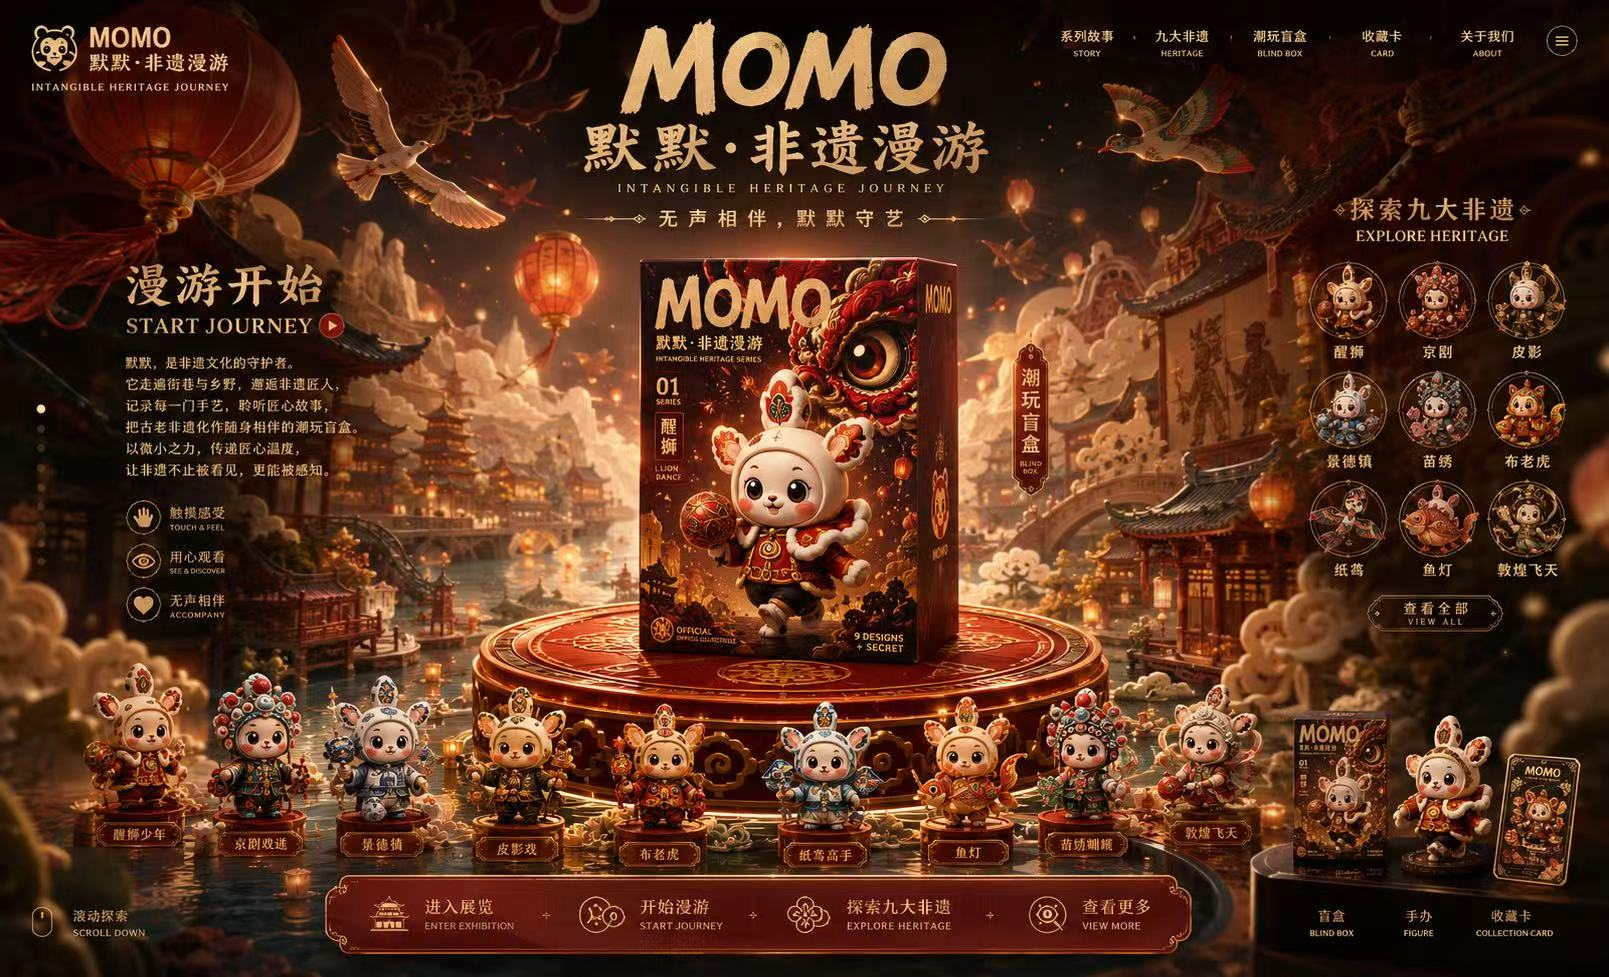
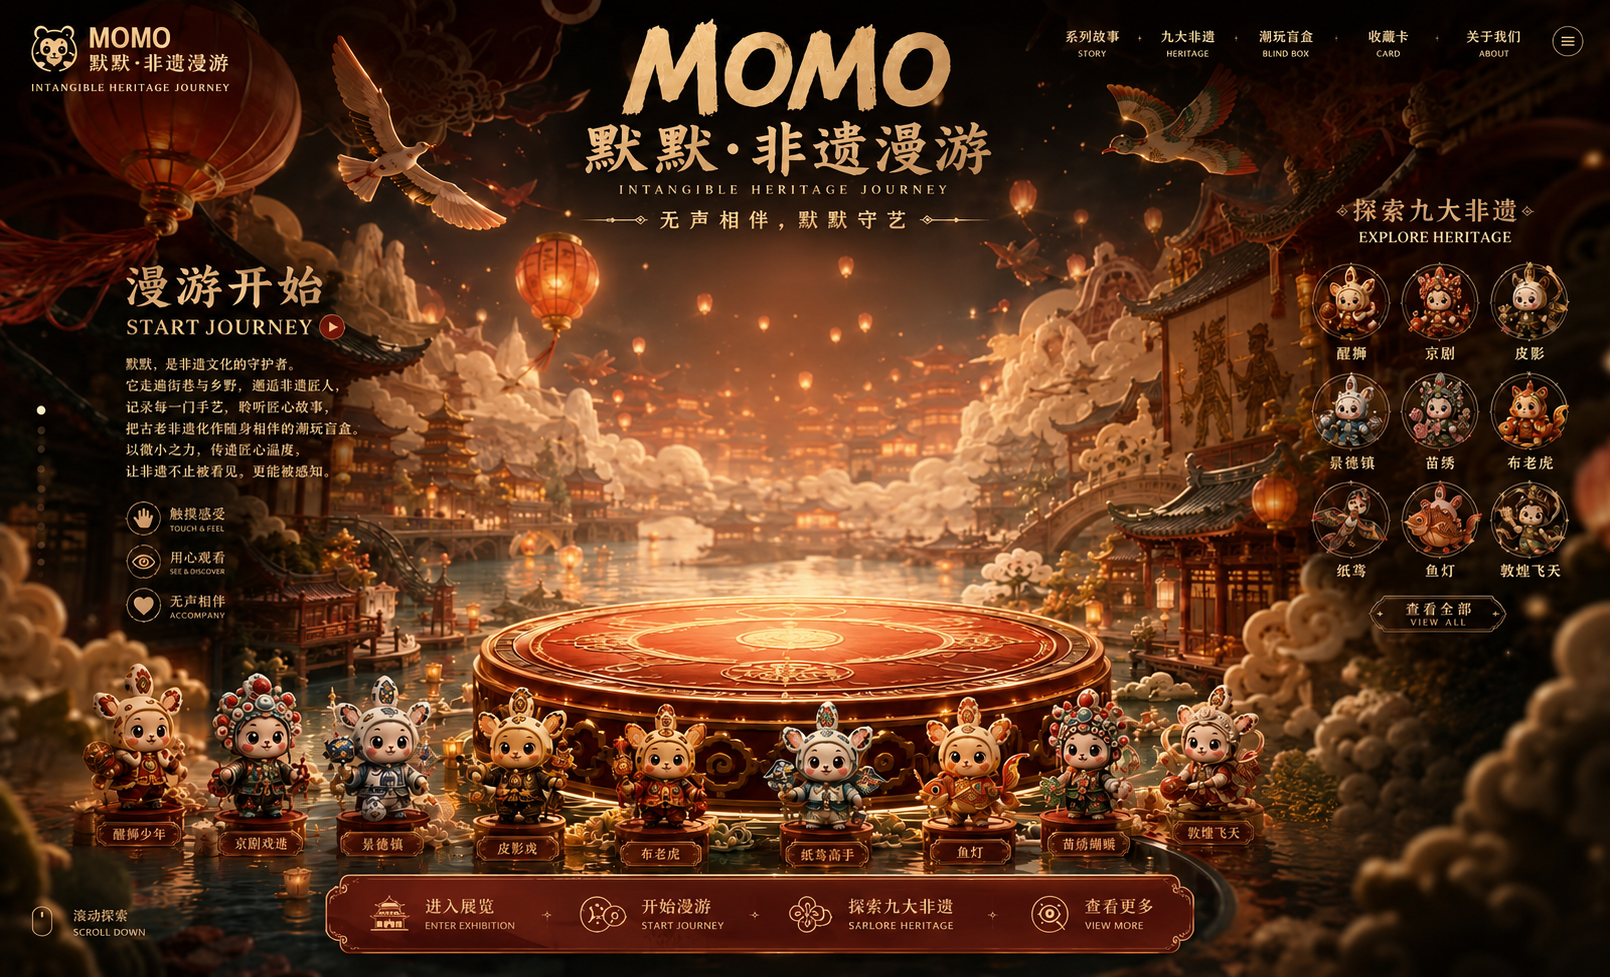
Replace hub artwork and anchor future 3D model slot

diff --git a/index.html b/index.html
@@ -30,6 +30,14 @@
 
       <section class="scene scene-hub" data-scene="hub" aria-label="非遗漫游功能导航">
         <img class="scene-art" src="./assets/hub.png" alt="默默非遗漫游功能导航大厅" />
+        <div
+          class="hub-model-slot"
+          id="hubModelSlot"
+          data-model-left="638"
+          data-model-top="257"
+          data-model-width="320"
+          data-model-height="412"
+          aria-hidden="true"></div>
         <button class="hub-back icon-button" data-go="home" type="button" aria-label="返回首页">←</button>
         <nav class="hub-hotspots" aria-label="功能导航">
           <button class="hub-area hub-story" data-hub-label="系列故事" type="button" aria-label="系列故事"></button>

diff --git a/styles.css b/styles.css
@@ -232,10 +232,29 @@ button { font: inherit; color: inherit; }
 
 .hub-back {
   position: absolute;
-  left: 1.5%;
-  top: 11%;
+  left: 1.4%;
+  top: 1.4%;
+  width: 14%;
+  height: 9%;
   z-index: 5;
-  background: rgba(32,10,10,.48);
+  opacity: 0;
+  border: 0;
+  background: transparent;
+}
+.hub-back:focus-visible {
+  opacity: 1;
+  outline: 1px solid rgba(255,219,143,.72);
+  outline-offset: -4px;
+}
+.hub-model-slot {
+  position: absolute;
+  left: 39.6273%;
+  top: 26.305%;
+  width: 19.8758%;
+  height: 42.1699%;
+  z-index: 3;
+  pointer-events: none;
+  transform-origin: 50% 100%;
 }
 .hub-hotspots {
   position: absolute;

diff --git a/script.js b/script.js
@@ -35,7 +35,7 @@ let audioContext;
 
 const sceneRatios = {
   home: 1586 / 992,
-  hub: 1609 / 977,
+  hub: 1610 / 977,
   draw: 1536 / 1024,
   result: 1609 / 977
 };

diff --git a/design-qa.md b/design-qa.md
@@ -1,0 +1,71 @@
+# Design QA — 第二页功能导航
+
+- Source visual truth: `C:\Users\HE\AppData\Local\Temp\codex-clipboard-b8bb9e5c-ffed-4530-b160-f25dd1c723cb.png`
+- Implementation screenshot: `C:\Users\HE\Documents\Codex\2026-07-27\new-chat-4\hub-implementation.png`
+- Combined comparison: `C:\Users\HE\Documents\Codex\2026-07-27\new-chat-4\hub-comparison.png`
+- Viewport: 1610 × 977 CSS px
+- Source pixels: 1610 × 977
+- Implementation pixels: 1610 × 977
+- Device scale factor: 1
+- Density normalization: none required
+- State: homepage → second-page functional navigation
+- Primary interaction tested: enter second page
+- Console errors: none
+
+## Full-view comparison evidence
+
+The implementation uses the supplied image at its native 1610 × 977 ratio. The image crop, typography, palette, illustration detail, bottom navigation, character row, central pedestal and surrounding architecture match pixel-for-pixel because the supplied raster is used directly as the page artwork.
+
+The model anchor measured in the rendered browser at:
+
+- X: 637.96 px
+- Y: 256.95 px
+- Width: 320.04 px
+- Height: 412.04 px
+
+This matches the requested X 638, Y 257, 320 × 412 px placement within sub-pixel rendering tolerance. Its horizontal center is 797.98 px, aligned with the circular pedestal.
+
+## Focused-region comparison evidence
+
+No separate crop was required. The model slot has no visible content in this iteration, and its exact browser bounding box was measured directly. The supplied background image contains all visible type, icons, illustrations and decorative details, so the full-resolution combined comparison is sufficient for those surfaces.
+
+## Required fidelity surfaces
+
+- Fonts and typography: supplied raster typography is unchanged.
+- Spacing and layout rhythm: native image ratio preserved; model anchor matches requested coordinates and dimensions.
+- Colors and visual tokens: supplied raster colors are unchanged.
+- Image quality and asset fidelity: original 24-bit PNG is used directly without stretching or recompression.
+- Copy and content: supplied raster copy is unchanged; existing invisible navigation hotspots remain functional.
+
+## Comparison history
+
+### Pass 1
+
+- [P2] A visible circular back control appeared over the upper-left artwork but was not present in the source.
+- Fix: converted the top-left brand area into an invisible home-return hotspot; keyboard focus still receives a visible outline.
+
+### Pass 2
+
+- The extra visible back control is gone.
+- The only remaining overlays are the product's existing lantern cursor, sound control and gesture control. These are intentional global interaction features and do not change the underlying second-page composition.
+- No actionable P0, P1 or P2 differences remain.
+
+## Findings
+
+No blocking or moderate fidelity issues remain.
+
+## Implementation checklist
+
+- [x] Replace second-page artwork.
+- [x] Preserve the 1610 × 977 ratio.
+- [x] Keep navigation hotspots functional.
+- [x] Add an empty, non-interactive future model slot.
+- [x] Anchor the slot to X 638, Y 257, 320 × 412 px.
+- [x] Confirm the model slot center aligns at X ≈ 798.
+- [x] Verify console output.
+
+## Follow-up polish
+
+- When a GLB is supplied, place its viewer inside `#hubModelSlot` and normalize the model's ground point to the slot's bottom center.
+
+final result: passed
